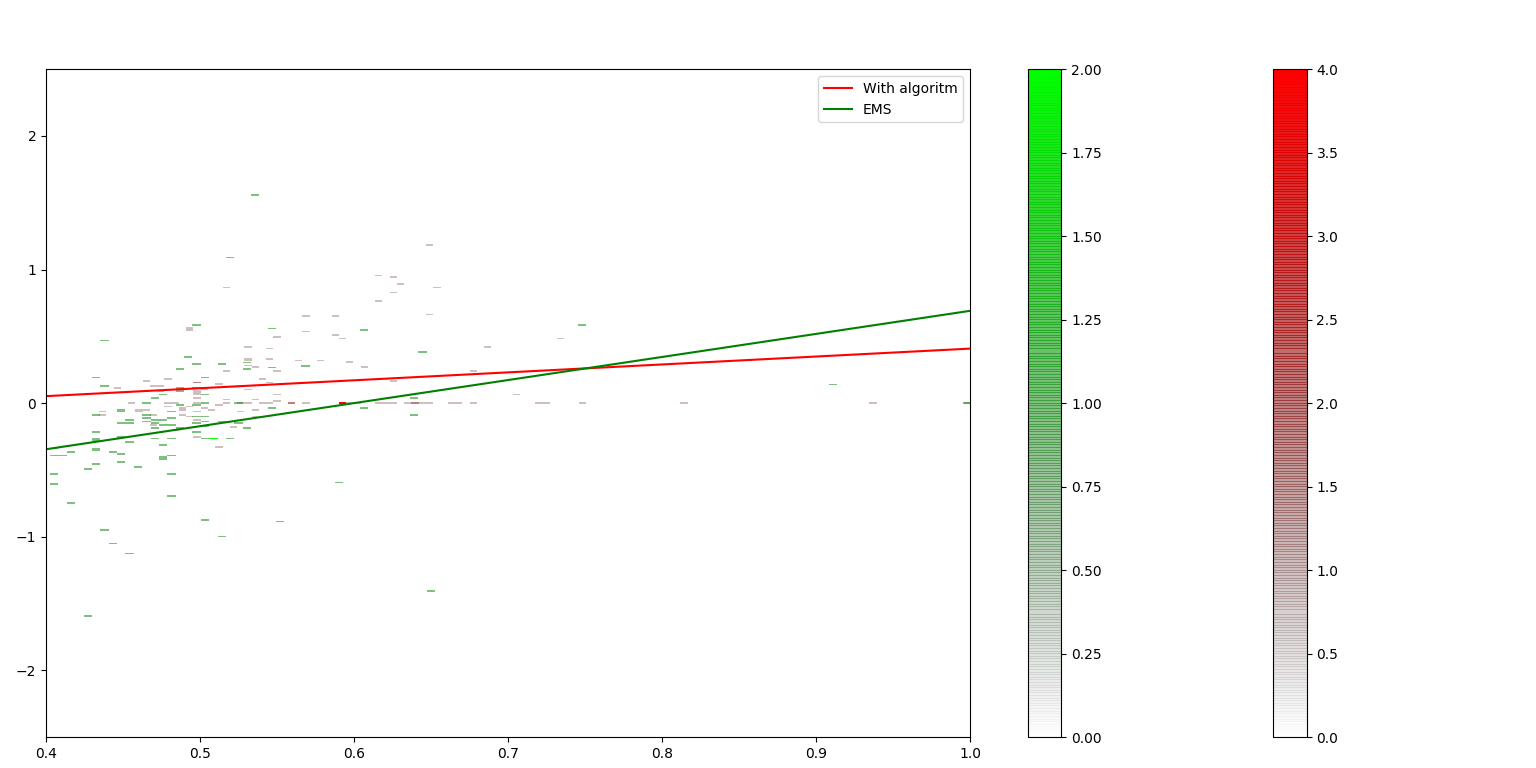
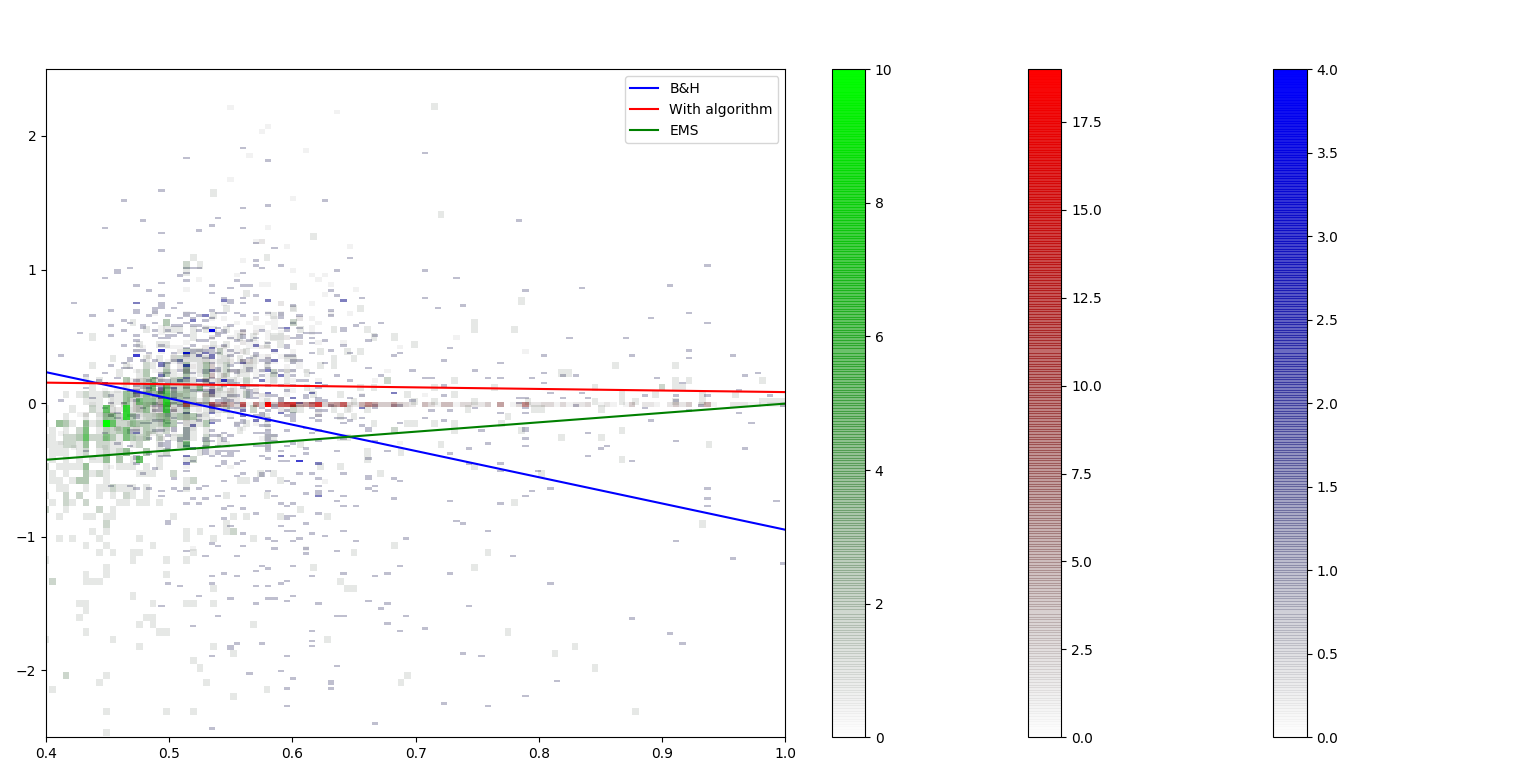
[Fixes] and improves

diff --git a/analysis/CompanyAnalysisSVC.py b/analysis/CompanyAnalysisSVC.py
@@ -80,6 +80,7 @@ def optParamsSVCR2(company_id): #Opt SVC with profibility
     data = DbGet().getHistory2(company_id, numberOfDaysSample + numberOfTrainVectors + repeats + 1);
     if data == False or len(data) < numberOfDaysSample + numberOfTrainVectors + repeats + 1:
         print ("Not enough length: "+str(numberOfDaysSample + numberOfTrainVectors + repeats + 1))
+        DbInsert().saveOptSVC(company_id, "svcr", kernel, -1, 0, 0, 0, 0, 0, 0, 0, 0)
         return -1
 
     new_data = []
@@ -110,6 +111,7 @@ def optParamsSVCR2(company_id): #Opt SVC with profibility
     number_of_ones=[]
     prof_perc_with_alg = 1
     prof_perc_with_ems = 1
+    prof_perc_b_and_h = 1
 
     for i in range(0, repeats):
         development and print()
@@ -144,6 +146,11 @@ def optParamsSVCR2(company_id): #Opt SVC with profibility
             development and print("->Ems decided to invest! = "+str(pr["perc_with_ems"]))
             prof_perc_with_ems = prof_perc_with_ems * profitability[finalPos]
             development and print("->New ems profitability = "+str(prof_perc_with_ems))
+        prof_perc_b_and_h = prof_perc_b_and_h * profitability[finalPos]
+        development and print("->New B&H profitability = "+str(prof_perc_b_and_h))
+
+    predictions = [int(val) for val in predictions] #Boolean to int
+    predictions_ems = [int(val) for val in predictions_ems] #Boolean to int
 
     development and print("\n--Results--\n")
     development and print("predictions="+str(predictions)+"\r")
@@ -154,7 +161,7 @@ def optParamsSVCR2(company_id): #Opt SVC with profibility
     development and print("avg probas="+str(np.average(probas))+"\r")
     development and print("number_of_ones="+str(number_of_ones)+"\r")
     development and print("avg number_of_ones="+str(np.average(number_of_ones))+"\r")
-    development and print("->Buy & Hold: prof_perc="+str(prod(profitability))+"\r")
+    development and print("->Buy & Hold: prof_perc="+str(prof_perc_b_and_h)+"\r")
     development and print("->Alg: prof_perc_with_alg="+str(prof_perc_with_alg)+"\r")
     development and print("->EMS: prof_perc_with_ems="+str(prof_perc_with_ems)+"\n")
 
@@ -302,7 +309,7 @@ def testPrediction2(X, Y, kernel):
         development and print("predicted="+str(predictions)+"\r")
     except ValueError:
         if(sum(x_train) == len(x_train) or sum(x_train) <= 1):
-            return {"result": np.asarray([True]), "result_ems": x_test == y_test, "proba": {0: {1: -1}}, "perc_with_alg": sum(x_train[1])>1, "number_of_ones": sum(X > 0)/len(X), "perc_with_ems": x_test == 1 } #All are the same
+            return {"result": np.asarray([True]), "result_ems": x_test == y_test, "proba": {0: {1: 1}}, "perc_with_alg": sum(x_train[1])>1, "number_of_ones": sum(X > 0)/len(X), "perc_with_ems": x_test == 1 } #All are the same
         print((x_train))
         print("ERROR")
         raise
@@ -337,7 +344,7 @@ def testPrediction(X, Y, kernel):
             predictions = predictionModel.predict(x_reshape)
             proba = predictionModel.predict_proba(x_reshape)
         except ValueError:
-            return {"result": np.asarray([True]), "proba": {0: {0: -1}} } #All are the same
+            return {"result": np.asarray([True]), "proba": {0: {0: 1}} } #All are the same
 
         development and print ("x_train=" + str(x_train))
         development and print ("y_train=" + str(y_train))

diff --git a/plotAllMCE.py b/plotAllMCE.py
@@ -9,17 +9,17 @@ from database.dbGet import *
 from math import log
 
 def plot(axes):
-    # data = DbGet().getCompaniesToPlotPercentage()
-    # plot_data(axes=axes, nbins=[120,500], data=data, cmap=LinearSegmentedColormap('BlueRed1', {
-    #     'red':     ((0.0, 0.0, 0.0),
-    #                (1.0, 0.0, 0.0)),
-    #
-    #      'green': ((0.0, 0.0, 0.0),
-    #                (1.0, 0.0, 0.0)),
-    #
-    #      'blue':  ((0.0, 0.0, 0.0),
-    #                (1.0, 1.0, 1.0))
-    #     }), color='blue')
+    data = DbGet().getCompaniesToPlotPercentage()
+    plot_data(axes=axes, nbins=[120,500], data=data, cmap=LinearSegmentedColormap('BlueRed1', {
+        'red':     ((0.0, 0.0, 0.0),
+                   (1.0, 0.0, 0.0)),
+
+         'green': ((0.0, 0.0, 0.0),
+                   (1.0, 0.0, 0.0)),
+
+         'blue':  ((0.0, 0.0, 0.0),
+                   (1.0, 1.0, 1.0))
+        }), color='blue')
     data = DbGet().getCompaniesToPlotAlg()
     plot_data(axes=axes, nbins=[120,120], data=data, cmap=LinearSegmentedColormap('BlueRed1', {
         'red':     ((0.0, 0.0, 0.0),
@@ -84,8 +84,8 @@ fig, axes = plt.subplots(ncols=ncols, nrows=nrows)
 # Plot
 plot(axes)
 axes.legend([
-# "Profitability without algoritm",
-"With algoritm",
+"B&H",
+"With algorithm",
 "EMS"],loc="upper right")
 
 plt.subplots_adjust(left=0.03, right=0.97, bottom=0.04, top=0.91, wspace=0.32)

diff --git a/database/dbGet.py b/database/dbGet.py
@@ -122,7 +122,7 @@ class DbGet:
         return result[0]
 
     def getCompanyToOptSVC(self):
-        query = "SELECT DISTINCT(c.id) FROM companies c JOIN histories h ON h.company_id = c.id AND c.symbol like '%:mce' LEFT JOIN companiesSVC svmWQ on svmWQ.company_id = h.company_id WHERE svmWQ.company_id IS NULL AND YEAR(h.date) = 2017 ORDER BY RAND() LIMIT 1"
+        query = "SELECT DISTINCT(c.id) FROM companies c JOIN histories h ON h.company_id = c.id AND c.currency = 'EUR' OR c.currency='USD' LEFT JOIN companiesSVC svmWQ on svmWQ.company_id = h.company_id WHERE svmWQ.company_id IS NULL AND YEAR(h.date) = 2017 ORDER BY RAND() LIMIT 1"
         result = Database().runQuery(query)
         if not result or not result[0]:
             return False

diff --git a/database/dbInsert.py b/database/dbInsert.py
@@ -166,7 +166,7 @@ class DbInsert:
         Database().runQuery(query)
 
     def saveOptSVC(self, companyId, svm, kernel, rate, proba, prof_perc, prof_perc_with_alg, prof_perc_with_ems, rate_ems, number_of_ones, numberOfDaysSample, numberOfTrainVectors):
-        if (rate == -1 or rate ==-2):
+        if (rate == -1 or rate ==-2 or not rate or rate ==""):
             rate = -1
             proba = -1
             prof_perc = 0

diff --git a/database/connect.py b/database/connect.py
@@ -14,7 +14,12 @@ class Database:
 
         conn = pymysql.connect(**config)
         cursor = conn.cursor()
-        cursor.execute(query)
+
+        try:
+            cursor.execute(query)
+        except pymysql.err.DataError:
+            print("Error while executing: "+query)
+            raise
 
         if query.upper().startswith('SELECT'):
             data = cursor.fetchall()   # get results from select

diff --git a/analysis/Analize.py b/analysis/Analize.py
@@ -102,6 +102,10 @@ class Analize:
         while(True):
             company = DbGet().getCompanyToOptSVC();
 
+            if company == False:
+                print("No more companies left")
+                exit()
+
             optParamsSVCR2(company[0])
             # if currency is True:
             # exit();

diff --git a/Settings.py b/Settings.py
@@ -1,6 +1,6 @@
 #General Settings
 numberOfThreads = 30
-numberOfAnalizeThreads = 1
+numberOfAnalizeThreads = 10
 
 #DB settings
 maxTimeForUpdateDB = 24 #hrs
